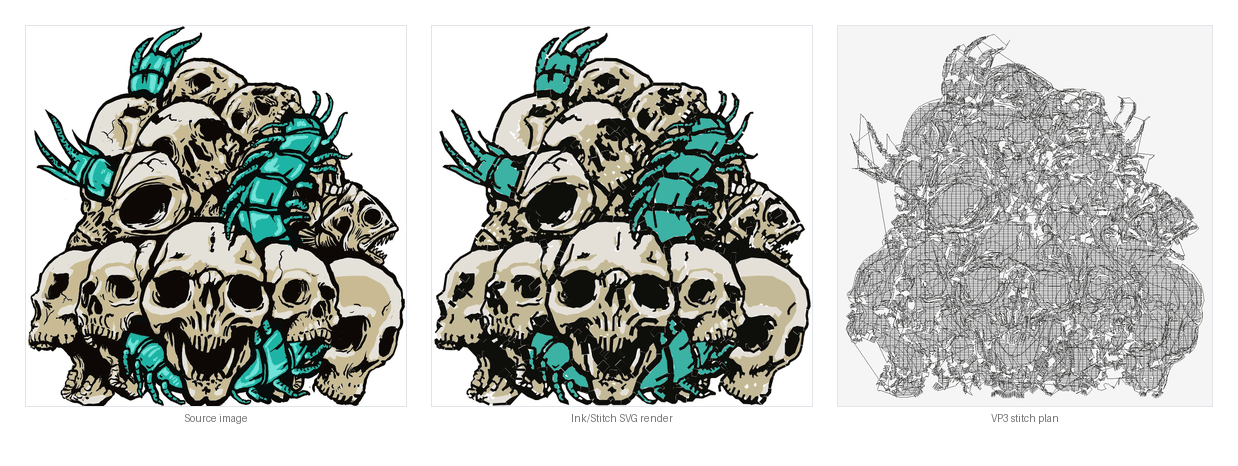
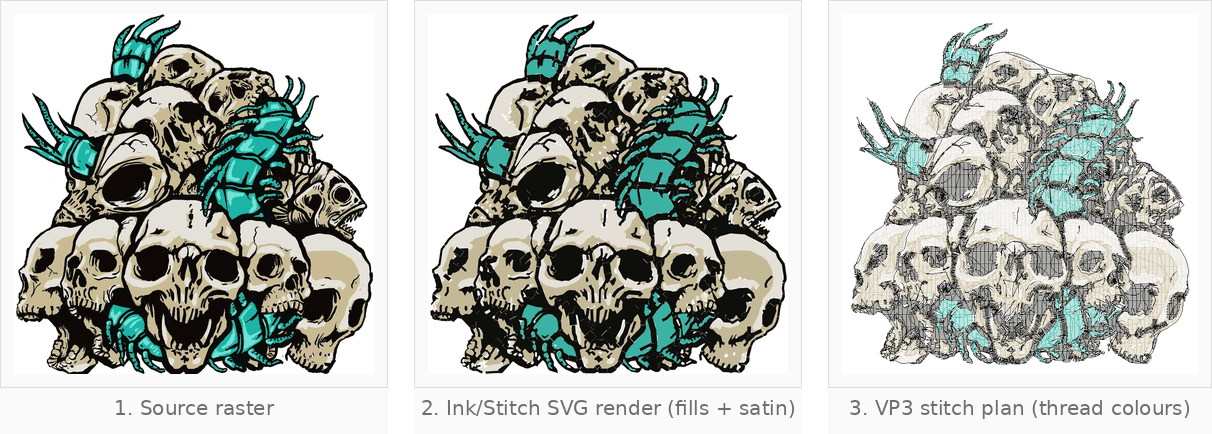
docs: colour stitch-plan previews + preview.py renderer

diff --git a/tools/digitize/preview.py b/tools/digitize/preview.py
@@ -1,0 +1,83 @@
+#!/usr/bin/env python3
+"""Render an embroidery file (VP3/DST/PES/...) to a colour PNG preview.
+
+Colours come from the file's thread list, so a VP3 stitch plan looks like the
+finished patch instead of flat grey.  Jumps and trims are drawn faintly so the
+travel path is still visible.
+
+Usage:
+    python tools/digitize/preview.py work/design.vp3 work/design_plan.png
+    python tools/digitize/preview.py in.dst out.png --width 1200 --margin 24
+"""
+import argparse
+
+import pystitch
+from PIL import Image, ImageDraw
+
+
+def _rgb(thread):
+    if hasattr(thread, "get_red"):
+        return (thread.get_red(), thread.get_green(), thread.get_blue())
+    value = getattr(thread, "thread", thread) or "#000000"
+    value = value.lstrip("#")
+    return tuple(int(value[i:i + 2], 16) for i in (0, 2, 4))
+
+
+def render(path, out, width=900, margin=20, background=(255, 255, 255),
+           jump_color=(205, 205, 205)):
+    pattern = pystitch.read(path)
+    stitches = [s for s in pattern.stitches if len(s) >= 2]
+    if not stitches:
+        raise SystemExit(f"no stitches in {path}")
+
+    xs = [s[0] for s in stitches]
+    ys = [s[1] for s in stitches]
+    minx, maxx, miny, maxy = min(xs), max(xs), min(ys), max(ys)
+    span = max(maxx - minx, maxy - miny) or 1
+    scale = (width - 2 * margin) / span
+    w = int((maxx - minx) * scale) + 2 * margin
+    h = int((maxy - miny) * scale) + 2 * margin
+    img = Image.new("RGB", (w, h), background)
+    draw = ImageDraw.Draw(img)
+
+    def px(x, y):
+        return (int((x - minx) * scale) + margin, int((y - miny) * scale) + margin)
+
+    color_index = 0
+    prev = None
+    for s in stitches:
+        cmd = s[2] & pystitch.COMMAND_MASK if len(s) > 2 else pystitch.STITCH
+        if cmd == pystitch.COLOR_CHANGE:
+            color_index += 1
+            prev = None
+            continue
+        if cmd == pystitch.END:
+            break
+        point = px(s[0], s[1])
+        if prev is not None:
+            if cmd == pystitch.STITCH:
+                draw.line([prev, point], fill=_rgb(pattern.get_thread_or_filler(color_index)), width=1)
+            elif cmd == pystitch.JUMP:
+                draw.line([prev, point], fill=jump_color, width=1)
+        if cmd in (pystitch.JUMP, pystitch.TRIM, pystitch.STOP):
+            prev = None
+        else:
+            prev = point
+
+    img.save(out)
+    return w, h
+
+
+def main():
+    ap = argparse.ArgumentParser(description=__doc__)
+    ap.add_argument("input")
+    ap.add_argument("output")
+    ap.add_argument("--width", type=int, default=900)
+    ap.add_argument("--margin", type=int, default=20)
+    args = ap.parse_args()
+    w, h = render(args.input, args.output, width=args.width, margin=args.margin)
+    print(f"wrote {args.output} ({w}x{h})")
+
+
+if __name__ == "__main__":
+    main()

diff --git a/README.md b/README.md
@@ -83,6 +83,7 @@ tools/
 │   ├── run.sh          # one-shot CLI: image → SVG + VP3
 │   ├── vectorize.py    # separation, vectorize, satin outlines, ordering, trim
 │   ├── skeleton.py     # centre-line extraction for satin outlines
+│   ├── preview.py      # render a VP3 to a colour stitch-plan PNG
 │   ├── analyze.py      # colour/region statistics for debugging separation
 │   └── make_config.*   # per-image YAML config helper
 └── wxstub/             # minimal wx shim so Ink/Stitch runs headless

diff --git a/docs/USAGE.md b/docs/USAGE.md
@@ -90,6 +90,12 @@ To run `vectorize.py` directly and skip the export:
 .venv/bin/python tools/digitize/vectorize.py [flags] input.webp work/out.svg
 ```
 
+To render a machine file to a colour stitch-plan preview:
+
+```bash
+.venv/bin/python tools/digitize/preview.py work/out.vp3 work/out_plan.png
+```
+
 ---
 
 ## Tunable constants
